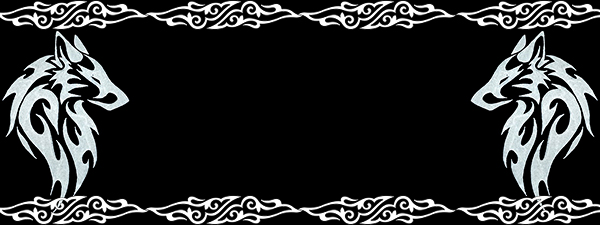
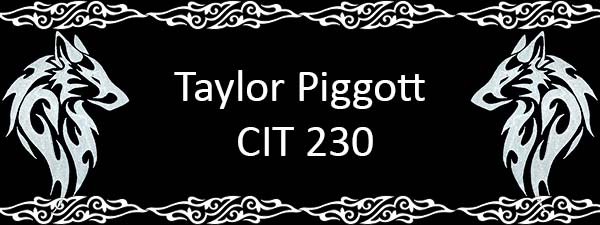
changed up stuff

Changed region(s): [[0.27, 0.3111, 0.72, 0.4978], [0.39, 0.56, 0.63, 0.7156]]

diff --git a/cit230/styles/main.css b/cit230/styles/main.css
@@ -1,32 +1,40 @@
+* {
+
+    box-sizing: border-box;
+    margin: auto;
+
+}
+
+html{
+    background-image: url('../images/background.jpg');
+    background-attachment: fixed;
+}
+
+
+header,
+nav,
+main,
+body,
+footer {
+    max-width: 1000px;
+}
 
 
 
 body {
 
-    background-image: url('../images/background.jpg');
-    background-size: 100%;
-    background-attachment: fixed;
-    width: 78.1%;
     margin-left: auto;
     margin-right: auto;
     font-size: 20px;
-    border-style: solid;
-    border-width: 1px;
-    border-color: white;
-    border-radius: 2px;
     opacity: .9;
 }
 
 
-header {
 
-    text-align: center;
-    background-image: url('../images/banner.jpg');
-    background-size: 100%;
-    margin-left: auto;
-    margin-right: auto;
-    height: 225px;
 
+#banner{
+    max-width: 1000px;
+    padding: 1px;
 }
 
 
@@ -35,7 +43,7 @@ main {
 
     height: 600px;
     background-color: black;
-    padding: 20px;
+    padding: 10px;
 
 }
 
@@ -58,7 +66,6 @@ footer {
 
     height: 50px;
     text-align: center;
-    padding: 1px;
     font-size: 15px;
     background-color: black;
 

diff --git a/cit230/index.html b/cit230/index.html
@@ -16,11 +16,9 @@
 
 
     <header>
-
-        <br>
-        <h1>CIT 230</h1>
-        <h1>Taylor Piggott</h1>
-
+            <img id="banner" src="images/banner.jpg" alt="banner"
+            srcset="images/smallbanner.jpg 600w,
+                    images/banner.jpg 1000w">
     </header>
 
 
@@ -48,7 +46,7 @@
             <li><a href="assignments/lesson3/fixedhtml.html">Lesson 3:</a> Fixed HTML</li>
             <li><a href="assignments/lesson4/franklin-4.html">Lesson 4:</a> Franklin-4: <a href="assignments/lesson4\websiteplan.pdf">Website Plan</a></li>
             <li><a href="assignments/lesson5/franklin-5.html">Lesson 5:</a> Franklin-5: Weather Page</li>
-            <li><a href="assignments/lesson6/franklin-6.html">Lesson 6: </a>Franklink-6: Weather Page</li>
+            <li><a href="assignments/lesson6/franklin-6.html">Lesson 6:</a> Franklink-6: Weather Page</li>
         </ul>
     </main>
 

diff --git a/cit230/assignments/lesson6/styles/main.css b/cit230/assignments/lesson6/styles/main.css
@@ -5,14 +5,18 @@
 
 }
 
-body {
+html{
 
-    font-size: 20px;
-    font-family: 'Spectral', serif;
     background-image: url(../images/smallbackground.jpg);
     background-repeat: no-repeat;
     background-size: cover;
     background-attachment: fixed;
+}
+
+body {
+
+    font-size: 20px;
+    font-family: 'Spectral', serif;
     color: white;
 
 }

diff --git a/cit230/assignments/lesson6/styles/large.css b/cit230/assignments/lesson6/styles/large.css
@@ -1,7 +1,7 @@
 @media only screen and (min-width: 1024px ) {
 
 
-    body{
+    html{
 
         background-image: url(../images/largebackground.jpg);
         background-size: cover;

diff --git a/cit230/assignments/lesson6/styles/medium.css b/cit230/assignments/lesson6/styles/medium.css
@@ -1,6 +1,6 @@
 @media only screen and (min-width: 600px) {
 
-    body {
+    html {
 
         background-image: url(../images/mediumbackground.jpg);
     }

diff --git a/cit230/assignments/lesson6/scripts/currentdate.js b/cit230/assignments/lesson6/scripts/currentdate.js
@@ -1,4 +1,4 @@
-function dateMaker(){
+function dateMaker() {
 
     var md = new Date();
     var monthDay = md.getDate();
